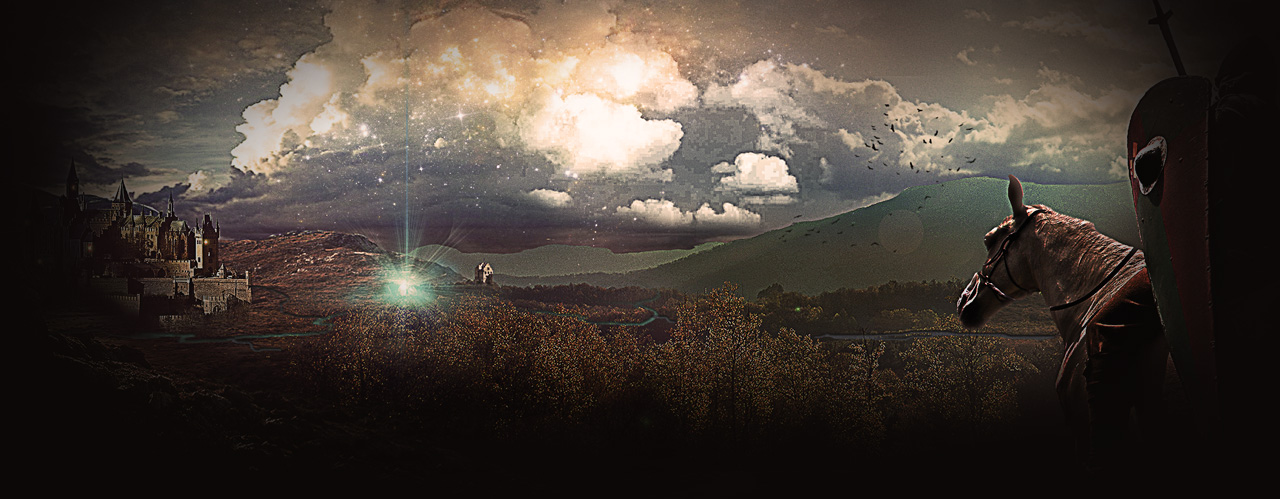
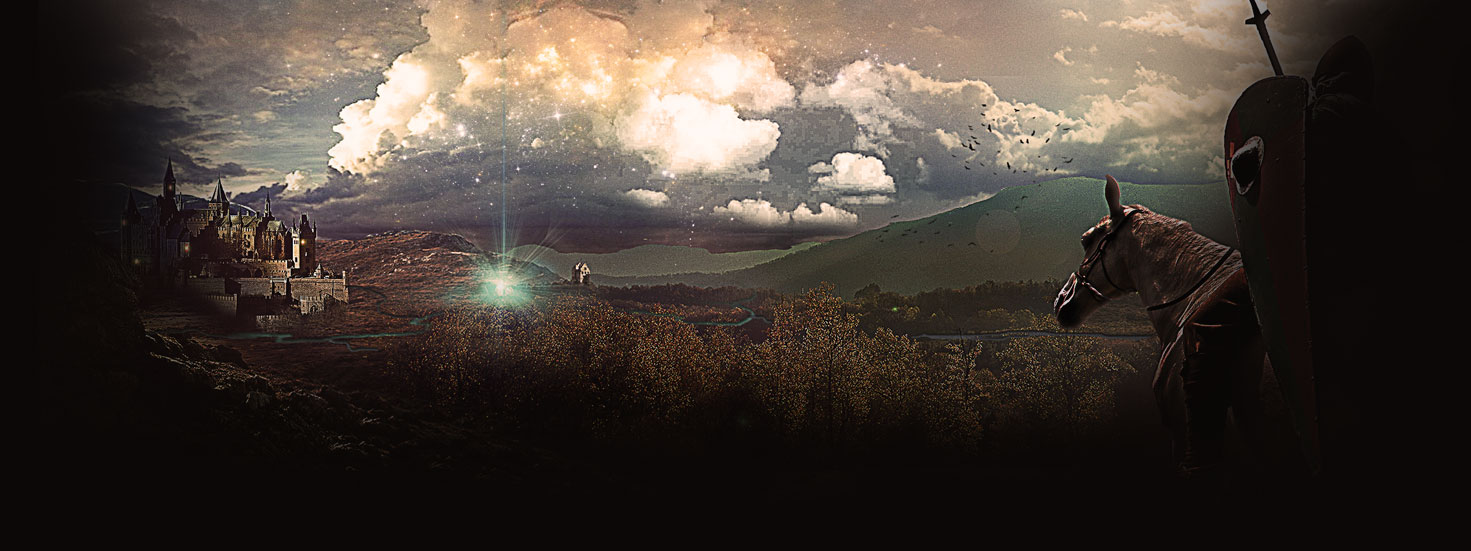
optimized png to jpg

diff --git a/client_v2/src/scss/_login.scss b/client_v2/src/scss/_login.scss
@@ -67,14 +67,14 @@
 
 
         .tg-loginform-wrap {
-            background: url($imgPath + '/login/border-bottom-mainbox.png') no-repeat bottom left;
+            background: url($imgPath + '/login/border-bottom-mainbox.jpg') no-repeat bottom left;
             background-size: 100%;
             padding-bottom: 13px;
         }
 
         .tg-loginform-content {
             padding: 0 2rem 2rem;
-            background: url($imgPath + '/login/border-central-mainbox.png') repeat-y top;
+            background: url($imgPath + '/login/border-central-mainbox.jpg') repeat-y top;
             background-size: 100%;
             color: #ababaa;
             font-family: Georgia, 'Times New Roman', Times, serif;

diff --git a/client_v2/src/js/modules/preloader.js b/client_v2/src/js/modules/preloader.js
@@ -50,6 +50,8 @@ export default class Preloader {
             if (loadedimages == assets.length) {
                 postaction(images) //call postaction and pass in newimages array as parameter
             }
+
+            percentage = percentage > 100 ? 100 : percentage;
             $('#tgPreloader').find('span').text(percentage);
         }
         for (let i = 0; i < assets.length; i++) {
